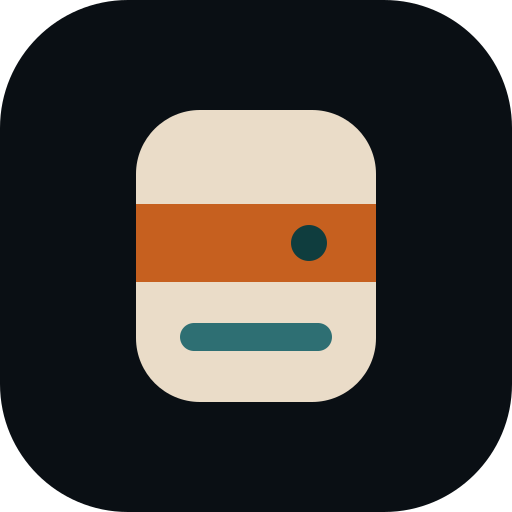
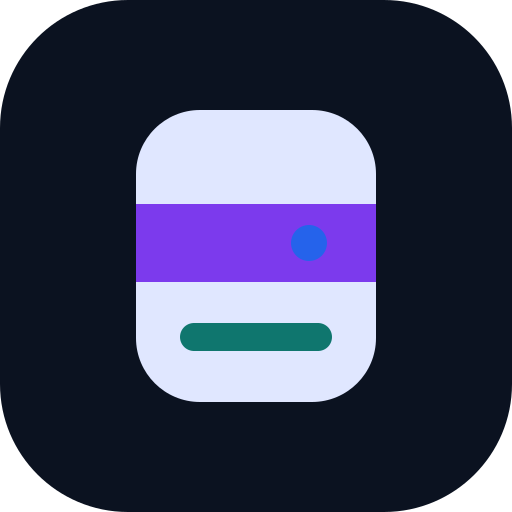
Mejora experiencia movil y renueva paleta

Changed region(s): [[0.25, 0.1875, 0.75, 0.8125]]

diff --git a/src/features/dashboard/dashboard.tsx b/src/features/dashboard/dashboard.tsx
@@ -25,6 +25,7 @@ import { queueTransaction } from "@/lib/offline/queue";
 import { cn } from "@/lib/utils";
 import { createTransactionSchema } from "@/features/transactions/schemas";
 import { signOut } from "@/app/login/actions";
+import { LinkPendingIndicator } from "@/components/link-pending-indicator";
 import type {
   Transaction,
   TransactionCategory,
@@ -130,7 +131,7 @@ export function Dashboard({ initialTransactions, initialSharedBalances, user, da
                 key={item.label}
                 href={item.href}
                 className={cn(
-                  "flex w-full items-center gap-3 rounded-2xl px-4 py-3.5 text-left text-[15px] font-semibold transition",
+                  "relative flex w-full items-center gap-3 rounded-2xl px-4 py-3.5 text-left text-[15px] font-semibold transition",
                   item.active
                     ? "bg-cream text-brand shadow-sm"
                     : "text-white/65 hover:bg-white/8 hover:text-white",
@@ -138,6 +139,7 @@ export function Dashboard({ initialTransactions, initialSharedBalances, user, da
               >
                 <Icon className="size-5" strokeWidth={2.2} aria-hidden="true" />
                 {item.label}
+                <LinkPendingIndicator />
               </Link>
             );
           })}
@@ -260,7 +262,7 @@ export function Dashboard({ initialTransactions, initialSharedBalances, user, da
                   </button>
                 </div>
                 <div className="mt-6 flex items-center gap-6">
-                  <div className="relative size-28 shrink-0 rounded-full bg-[conic-gradient(#0F3D3E_0_54%,#2E6F73_54%_78%,#C6601F_78%_91%,#7FB3B8_91%_100%)]">
+                  <div className="relative size-28 shrink-0 rounded-full bg-[conic-gradient(#2563EB_0_54%,#0F766E_54%_78%,#7C3AED_78%_91%,#A7F3D0_91%_100%)]">
                     <div className="absolute inset-4 grid place-items-center rounded-full bg-white text-center">
                       <div>
                         <p className="text-xs font-semibold text-slate-400">Total</p>
@@ -327,9 +329,10 @@ export function Dashboard({ initialTransactions, initialSharedBalances, user, da
         {navigation.map((item) => {
           const Icon = item.icon;
           return (
-            <Link key={item.label} href={item.href} className={cn("flex min-w-16 flex-col items-center gap-1 rounded-xl px-2 py-1.5 text-[11px] font-bold", item.active ? "text-brand" : "text-slate-400")}>
+            <Link key={item.label} href={item.href} className={cn("relative flex min-w-16 flex-col items-center gap-1 rounded-xl px-2 py-1.5 text-[11px] font-bold", item.active ? "text-brand" : "text-slate-400")}>
               <Icon className="size-5" strokeWidth={item.active ? 2.5 : 2} aria-hidden="true" />
               {item.label === "Presupuesto" ? "Plan" : item.label}
+              <LinkPendingIndicator />
             </Link>
           );
         })}
@@ -510,7 +513,7 @@ function QuickTransactionForm({
           <div className="mt-4 grid gap-4 sm:grid-cols-2">
             <label className="block">
               <span className="text-sm font-bold text-slate-700">Categoría</span>
-              <select name="category" defaultValue={type === "income" ? "salary" : "food"} className="mt-2 min-h-13 w-full appearance-none rounded-2xl border border-slate-200 bg-[linear-gradient(45deg,transparent_50%,#2E6F73_50%),linear-gradient(135deg,#2E6F73_50%,transparent_50%)] bg-[position:calc(100%-20px)_22px,calc(100%-15px)_22px] bg-[size:5px_5px,5px_5px] bg-no-repeat px-4 text-sm font-semibold outline-none focus:border-teal focus:ring-4 focus:ring-aqua/20">
+              <select name="category" defaultValue={type === "income" ? "salary" : "food"} className="mt-2 min-h-13 w-full appearance-none rounded-2xl border border-slate-200 bg-[linear-gradient(45deg,transparent_50%,#0F766E_50%),linear-gradient(135deg,#0F766E_50%,transparent_50%)] bg-[position:calc(100%-20px)_22px,calc(100%-15px)_22px] bg-[size:5px_5px,5px_5px] bg-no-repeat px-4 text-sm font-semibold outline-none focus:border-teal focus:ring-4 focus:ring-aqua/20">
                 {Object.entries(categoryMeta).map(([value, meta]) => <option key={value} value={value}>{meta.label}</option>)}
               </select>
             </label>

diff --git a/src/app/globals.css b/src/app/globals.css
@@ -1,13 +1,13 @@
 @import "tailwindcss";
 
 :root {
-  --ink: #0a0f14;
-  --brand: #0f3d3e;
-  --teal: #2e6f73;
-  --aqua: #7fb3b8;
-  --cream: #eadcc8;
-  --accent: #c6601f;
-  --surface: #f7f2eb;
+  --ink: #0b1220;
+  --brand: #2563eb;
+  --teal: #0f766e;
+  --aqua: #a7f3d0;
+  --cream: #e0e7ff;
+  --accent: #7c3aed;
+  --surface: #f8fafc;
   --visual-viewport-height: 100dvh;
   --visual-viewport-top: 0px;
   color-scheme: light;
@@ -25,6 +25,7 @@
 
 * {
   box-sizing: border-box;
+  -webkit-tap-highlight-color: transparent;
 }
 
 html {
@@ -61,6 +62,46 @@ textarea {
 
 button {
   cursor: pointer;
+  touch-action: manipulation;
+}
+
+a {
+  touch-action: manipulation;
+}
+
+button:active,
+a:active {
+  opacity: 0.82;
+}
+
+.link-pending-indicator {
+  position: absolute;
+  top: 0.55rem;
+  right: 0.55rem;
+  width: 0.42rem;
+  height: 0.42rem;
+  border-radius: 9999px;
+  background: currentColor;
+  opacity: 0;
+  visibility: hidden;
+}
+
+.link-pending-indicator.is-pending {
+  visibility: visible;
+  animation: pending-fade 160ms 80ms forwards, pending-pulse 800ms 80ms ease-in-out infinite;
+}
+
+@keyframes pending-fade {
+  to {
+    opacity: 0.65;
+  }
+}
+
+@keyframes pending-pulse {
+  50% {
+    transform: scale(1.7);
+    opacity: 0.25;
+  }
 }
 
 ::selection {
@@ -75,11 +116,11 @@ button {
 }
 
 .safe-header {
-  padding-top: max(1.25rem, env(safe-area-inset-top));
+  padding-top: max(1.25rem, calc(env(safe-area-inset-top) + 0.875rem));
 }
 
 .safe-dashboard-content {
-  padding-top: max(1.25rem, env(safe-area-inset-top));
+  padding-top: max(1.25rem, calc(env(safe-area-inset-top) + 0.875rem));
 }
 
 .safe-dashboard-main {

diff --git a/src/app/loading.tsx b/src/app/loading.tsx
@@ -1,0 +1,31 @@
+import { WalletCards } from "lucide-react";
+
+export default function Loading() {
+  return (
+    <div className="min-h-dvh bg-surface text-ink" role="status" aria-label="Cargando contenido">
+      <header className="safe-header bg-ink text-white">
+        <div className="mx-auto flex max-w-6xl items-center gap-3 px-5 pb-5 sm:px-8">
+          <span className="grid size-11 place-items-center rounded-2xl bg-accent">
+            <WalletCards className="size-5" aria-hidden="true" />
+          </span>
+          <div>
+            <p className="text-xs font-bold text-white/45">MyBudget</p>
+            <p className="font-extrabold">Preparando tu información</p>
+          </div>
+        </div>
+      </header>
+      <main className="mx-auto max-w-6xl animate-pulse px-5 py-7 sm:px-8">
+        <div className="h-4 w-36 rounded-full bg-aqua/45" />
+        <div className="mt-4 h-9 w-3/4 max-w-lg rounded-2xl bg-slate-200" />
+        <div className="mt-3 h-4 w-full max-w-xl rounded-full bg-slate-200" />
+        <section className="mt-8 grid gap-4 sm:grid-cols-3">
+          <div className="h-40 rounded-[2rem] bg-brand/15" />
+          <div className="h-40 rounded-[2rem] bg-white shadow-sm" />
+          <div className="h-40 rounded-[2rem] bg-white shadow-sm" />
+        </section>
+        <div className="mt-6 h-80 rounded-[2rem] bg-white shadow-sm" />
+      </main>
+      <span className="sr-only">Cargando…</span>
+    </div>
+  );
+}

diff --git a/src/components/app-header.tsx b/src/components/app-header.tsx
@@ -1,12 +1,15 @@
 import Link from "next/link";
 import { ArrowLeft, WalletCards } from "lucide-react";
 
+import { LinkPendingIndicator } from "@/components/link-pending-indicator";
+
 export function AppHeader({ title, backHref = "/" }: { title: string; backHref?: string }) {
   return (
     <header className="safe-header border-b border-white/10 bg-ink text-white">
       <div className="mx-auto flex max-w-6xl items-center gap-4 px-5 pb-5 sm:px-8">
-        <Link href={backHref} className="grid size-11 place-items-center rounded-2xl bg-white/8" aria-label="Volver">
+        <Link href={backHref} className="relative grid size-11 place-items-center rounded-2xl bg-white/8" aria-label="Volver">
           <ArrowLeft className="size-5" />
+          <LinkPendingIndicator />
         </Link>
         <span className="grid size-11 place-items-center rounded-2xl bg-accent"><WalletCards className="size-5" /></span>
         <div><p className="text-xs font-bold text-white/45">MyBudget</p><h1 className="text-lg font-extrabold">{title}</h1></div>

diff --git a/src/lib/supabase/proxy.ts b/src/lib/supabase/proxy.ts
@@ -27,9 +27,8 @@ export async function updateSession(request: NextRequest) {
     },
   });
 
-  const {
-    data: { user },
-  } = await supabase.auth.getUser();
+  const { data } = await supabase.auth.getClaims();
+  const isAuthenticated = Boolean(data?.claims?.sub);
 
   const pathname = request.nextUrl.pathname;
   const isAuthRoute = pathname.startsWith("/login") || pathname.startsWith("/auth");
@@ -39,14 +38,14 @@ export async function updateSession(request: NextRequest) {
     pathname.startsWith("/api/") ||
     pathname === "/manifest.webmanifest";
 
-  if (!user && !isPublicRoute) {
+  if (!isAuthenticated && !isPublicRoute) {
     const urlToLogin = request.nextUrl.clone();
     urlToLogin.pathname = "/login";
     urlToLogin.searchParams.set("next", pathname);
     return NextResponse.redirect(urlToLogin);
   }
 
-  if (user && pathname === "/login") {
+  if (isAuthenticated && pathname === "/login") {
     const destination = request.nextUrl.clone();
     destination.pathname = "/";
     destination.search = "";

diff --git a/src/components/mobile-navigation.tsx b/src/components/mobile-navigation.tsx
@@ -1,7 +1,11 @@
+"use client";
+
 import Link from "next/link";
 import { Home, ReceiptText, Users, WalletCards } from "lucide-react";
 
 import { cn } from "@/lib/utils";
+
+import { LinkPendingIndicator } from "./link-pending-indicator";
 
 const items = [
   { id: "home", label: "Inicio", href: "/", icon: Home },
@@ -25,12 +29,13 @@ export function MobileNavigation({ active }: { active: (typeof items)[number]["i
             href={item.href}
             aria-current={isActive ? "page" : undefined}
             className={cn(
-              "flex min-w-16 flex-col items-center gap-1 rounded-xl px-2 py-1.5 text-[11px] font-bold",
+              "relative flex min-w-16 flex-col items-center gap-1 rounded-xl px-2 py-1.5 text-[11px] font-bold",
               isActive ? "text-brand" : "text-slate-400",
             )}
           >
             <Icon className="size-5" strokeWidth={isActive ? 2.5 : 2} aria-hidden="true" />
             {item.label}
+            <LinkPendingIndicator />
           </Link>
         );
       })}

diff --git a/src/app/page.tsx b/src/app/page.tsx
@@ -1,7 +1,7 @@
 import { Dashboard } from "@/features/dashboard/dashboard";
 import { initialTransactions, sharedBalances } from "@/features/dashboard/demo-data";
+import { requireUser } from "@/lib/auth";
 import { isSupabaseConfigured } from "@/lib/supabase/config";
-import { createClient } from "@/lib/supabase/server";
 import { toTransaction } from "@/lib/transactions";
 import type { SharedBalance } from "@/types/finance";
 
@@ -19,12 +19,7 @@ export default async function HomePage() {
     );
   }
 
-  const supabase = await createClient();
-  const {
-    data: { user },
-  } = await supabase.auth.getUser();
-
-  if (!user) return null;
+  const { supabase, user } = await requireUser();
 
   const [profileResult, transactionResult, groupResult, balanceResult] = await Promise.all([
     supabase.from("profiles").select("display_name").eq("id", user.id).single(),

diff --git a/src/app/api/transactions/route.ts b/src/app/api/transactions/route.ts
@@ -5,12 +5,10 @@ import { createClient } from "@/lib/supabase/server";
 
 export async function POST(request: Request) {
   const supabase = await createClient();
-  const {
-    data: { user },
-    error: authError,
-  } = await supabase.auth.getUser();
+  const { data: claimsData, error: authError } = await supabase.auth.getClaims();
+  const userId = claimsData?.claims?.sub;
 
-  if (authError || !user) {
+  if (authError || !userId) {
     return NextResponse.json({ error: "No autorizado" }, { status: 401 });
   }
 
@@ -27,8 +25,8 @@ export async function POST(request: Request) {
     .from("transactions")
     .insert({
       id: transaction.id,
-      owner_id: user.id,
-      created_by: user.id,
+      owner_id: userId,
+      created_by: userId,
       kind: transaction.type,
       title: transaction.title,
       category: transaction.category,

diff --git a/src/lib/auth.ts b/src/lib/auth.ts
@@ -4,14 +4,16 @@ import { createClient } from "@/lib/supabase/server";
 
 export async function requireUser() {
   const supabase = await createClient();
-  const {
-    data: { user },
-    error,
-  } = await supabase.auth.getUser();
+  const { data, error } = await supabase.auth.getClaims();
+  const userId = data?.claims?.sub;
 
-  if (error || !user) {
+  if (error || !userId) {
     redirect("/login");
   }
+
+  const email =
+    typeof data.claims.email === "string" ? data.claims.email : undefined;
+  const user = { id: userId, email };
 
   return { supabase, user };
 }

diff --git a/src/app/manifest.ts b/src/app/manifest.ts
@@ -7,8 +7,8 @@ export default function manifest(): MetadataRoute.Manifest {
     description: "Tus gastos personales y compartidos, claros en un solo lugar.",
     start_url: "/",
     display: "standalone",
-    background_color: "#eadcc8",
-    theme_color: "#0f3d3e",
+    background_color: "#f8fafc",
+    theme_color: "#0b1220",
     lang: "es-MX",
     icons: [
       {

diff --git a/src/components/link-pending-indicator.tsx b/src/components/link-pending-indicator.tsx
@@ -1,0 +1,14 @@
+"use client";
+
+import { useLinkStatus } from "next/link";
+
+export function LinkPendingIndicator() {
+  const { pending } = useLinkStatus();
+
+  return (
+    <span
+      aria-hidden="true"
+      className={`link-pending-indicator ${pending ? "is-pending" : ""}`}
+    />
+  );
+}

diff --git a/src/app/layout.tsx b/src/app/layout.tsx
@@ -26,7 +26,7 @@ export const viewport: Viewport = {
   width: "device-width",
   initialScale: 1,
   viewportFit: "cover",
-  themeColor: "#0f3d3e",
+  themeColor: "#0b1220",
 };
 
 export default function RootLayout({ children }: Readonly<{ children: React.ReactNode }>) {
